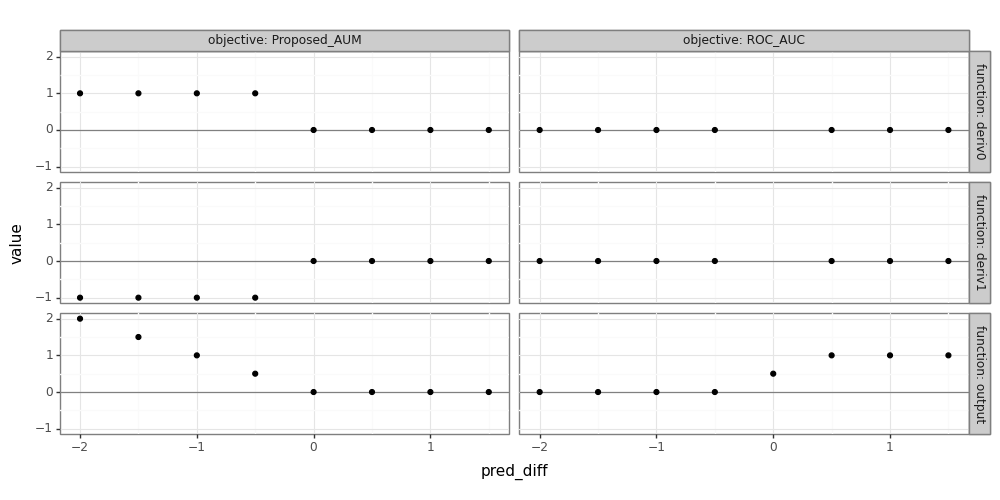
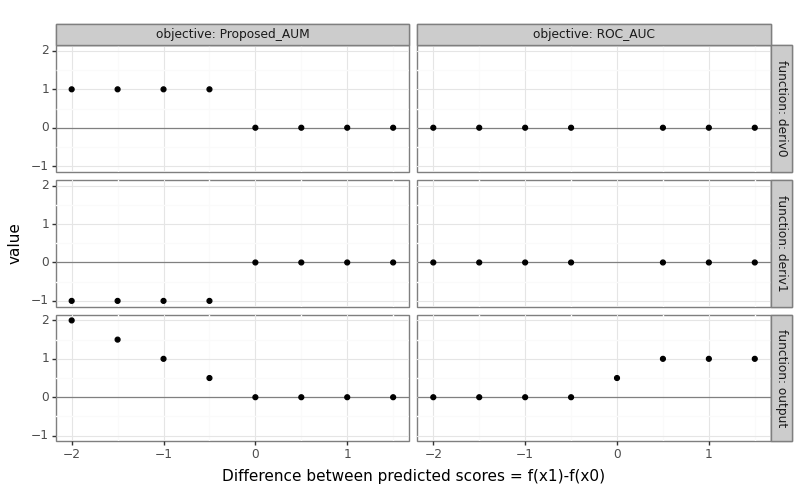
torch ROC done

diff --git a/_posts/2024-10-10-torch-roc-aum.md b/_posts/2024-10-10-torch-roc-aum.md
@@ -485,11 +485,11 @@ mean_log_loss(four_pred, four_labels)
 
 ``` python
 mean_log_loss_torch = torch.nn.BCEWithLogitsLoss()
-mean_log_loss_torch(four_pred, four_labels.float())
+mean_log_loss_torch(four_pred, torch.where(four_labels==1, 1.0, 0.0))
 ```
 
 ```
-## tensor(0.5428)
+## tensor(0.9178)
 ```
 
 And the code below computes the proportion incorrectly classified samples (error rate):
@@ -515,9 +515,9 @@ pred_grid = np.arange(-4.0, 4, 0.5)
 for objective in "prop_incorrect", "mean_log_loss":
     ofun = eval(objective)
     for pred_val in pred_grid:
-        pred_tensor=torch.tensor(pred_val)
+        pred_tensor=torch.tensor([pred_val])
         pred_tensor.requires_grad = True
-        label_tensor = torch.tensor([1])
+        label_tensor = torch.tensor([1.0])
         loss = ofun(pred_tensor, label_tensor)
         try:
             loss.backward()
@@ -669,10 +669,9 @@ show("gg_error_funs")
 
 ![plot of gg_error_funs](/assets/img/2024-10-10-torch-roc-aum/gg_error_funs.png)
 
-TODO
-
-Below I wrote an implementation of
-our AUM loss function,
+The figure above shows three piecewise constant functions of the constant added to predicted values: FPR, FNR, and their minimum. 
+The AUM is shown in the figure above as the shaded grey region, under the black min function. 
+To compute the AUM, we can use the code below, which first computes the ROC curve.
 
 
 ``` python
@@ -689,8 +688,18 @@ def Proposed_AUM(pred_tensor, label_tensor):
 
     """
     roc = ROC_curve(pred_tensor, label_tensor)
-    return torch.sum(roc["min(FPR,FNR)"][1:-1] * roc["min_constant"][1:].diff())
+    min_FPR_FNR = roc["min(FPR,FNR)"][1:-1]
+    constant_diff = roc["min_constant"][1:].diff()
+    return torch.sum(min_FPR_FNR * constant_diff)
+```
 
+The implementation above uses the `ROC_curve` sub-routine, to
+emphasize the similarity with the AUC computation. The `Proposed_AUM`
+function can be used as a drop-in replacement for the logistic loss
+(`torch.BCEWithLogitsLoss`), as can be seen below:
+
+
+``` python
 Proposed_AUM(four_pred, four_labels)
 ```
 
@@ -698,10 +707,16 @@ Proposed_AUM(four_pred, four_labels)
 ## tensor(1.5000)
 ```
 
-The implementation above consists of vectorized torch operations, all
-of which should be differentiable almost everywhere. To check the
-automatically computed gradient from torch with the directional
-derivatives described in our paper, we can use the backward method,
+The AUM loss and its gradient can be visualized using the setup below.
+
+* We assume there are two samples: one positive label, and one negative label.
+* We plot the AUM loss and its gradient (with respect to the two
+  predicted scores) for a grid different values of `f(x1)` (predicted
+  score for positive example), while keeping constant `f(x0)`
+  (predicted score for negative example).
+* We represent these in the plot below on an X axis called "Difference
+  between predicted scores" because AUM only depends on the
+  difference/rank of predicted scores (not absolute values).
 
 
 ``` python
@@ -731,7 +746,7 @@ for pred_diff in pred_diff_vec:
 aum_grad_df = pd.concat(aum_grad_df_list)
 gg_aum_grad = p9.ggplot()+\
     p9.theme_bw()+\
-    p9.theme(fig_size=(8,5))+\
+    p9.theme(figure_size=(8,5))+\
     p9.geom_hline(
         p9.aes(
             yintercept="value"
@@ -746,22 +761,35 @@ gg_aum_grad = p9.ggplot()+\
         ),
         data=aum_grad_df
     )+\
-    p9.facet_grid("function ~ objective", labeller="label_both")
-```
-
-```
-## 'There no themeable element called: fig_size'
-```
-
-``` python
+    p9.facet_grid("function ~ objective", labeller="label_both")+\
+    p9.scale_x_continuous(
+        name="Difference between predicted scores = f(x1)-f(x0)")
 show("gg_aum_grad")    
 ```
 
 ![plot of gg_aum_grad](/assets/img/2024-10-10-torch-roc-aum/gg_aum_grad.png)
 
+The figure above shows that the proposed AUM loss on the left, and the usual ROC AUC objective on the right. We can see that
+
+* The ROC AUC is 0 when the prediction difference is negative, meaning the predicted score for the positive example is less than the predicted score for the negative example (bad/incorrect ranking). 
+* The ROC AUC derivatives are zero everywhere except when the prediction difference is 0, where they are undefined.
+* The AUM increases linearly as the prediction difference gets more negative, so the derivatives are -1 for the positive example, and 1 for the negative example.
+* These derivatives mean that the AUM can be decreased by increasing the predicted score for the positive example, or decreasing the predicted score for the negative example.
+
 ## Conclusions
 
-TODO
+We have explored the relationship between the zero-one loss and its differentiable surrogate, the logistic loss.
+We showed how the proposed AUM loss can be interpreted as a differentiable surrogate for the ROC AUC, as shown in the table below.
+
+| Sum over            | Piecewise constant         | Differentiable Surrogate      |
+|---------------------|----------------------------|-------------------------------|
+| Samples             | Zero-one loss              | Logistic loss                 |
+| Points on ROC curve | AUC = Area Under ROC Curve | AUM = Area Under Min(FPR,FNR) |
+
+
+The proposed AUM loss can be implemented in torch code, by first computing the ROC curve, plotting the FPR/FNR as a function of constants added to predicted values, and then summing the Area Under the Min (AUM).
+
+How is AUM different from other differentiable AUC surrogates that sum over all pairs of positive and negative examples? Stay tuned for a new blog post comparing AUM to related work such as [Rust and Hocking, Squared Hinge surrogate](https://arxiv.org/abs/2302.11062), LibAUC, etc.
 
 ## Session info
 
